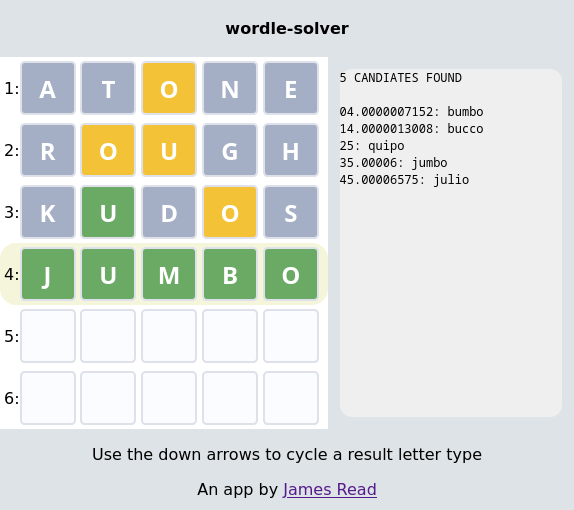
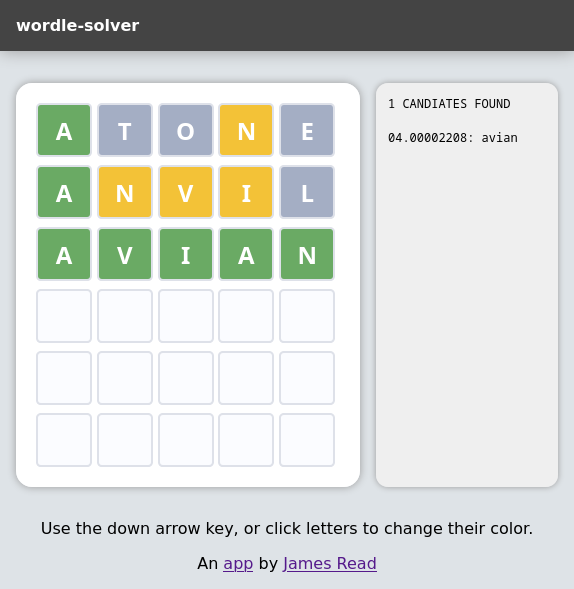
Significantly improved styling.

diff --git a/frontend/style.css b/frontend/style.css
@@ -14,10 +14,6 @@ div {
   align-items: center;
 }
 
-div[data-state='active'] {
-  background-color: beige;
-}
-
 div[data-state='active'] .letter {
   cursor: pointer;
 }
@@ -69,17 +65,21 @@ div[data-state='pending'] .letter {
 }
 
 pre {
- text-align: left;
- background-color: #efefef;
- margin: 1em;
- flex-grow: 1;
- border-radius: 1em;
+  text-align: left;
+  background-color: #efefef;
+  flex-grow: 1;
+  border-radius: 1em;
+  padding: 1em;
+  margin: 0;
+  box-shadow: 0 0 .5em #9a9a9a;
 }
 
 main {
   display: flex;
   flex-direction: row;
   margin: auto;
+  padding: 1em;
+  gap: 1em;
 }
 
 @media (max-width: 480px) {
@@ -88,14 +88,24 @@ main {
   }
 }
 
-h1 {
-  padding: .2em;
+header {
   margin: 0;
-  margin-top:  1em;
   margin-bottom: 1em;
+  padding: 1em;
+  background-color: #444;
+  box-shadow: 0 0 1em #9a9a9a;
+  color: white;
+  text-align: left;
+}
+
+h1 {
+  margin: 0;
   font-size: 1em;
 }
 
 #letters {
   background-color: white;
+  padding: 1em;
+  border-radius: 1em;
+  box-shadow: 0 0 .5em #9a9a9a;
 }

diff --git a/frontend/index.html b/frontend/index.html
@@ -9,22 +9,22 @@
 	</head>
 
 	<body>
-		<h1>wordle-solver</h1>
+		<header>
+			<h1>wordle-solver</h1>
+		</header>
 
 		<main>
 			<section id = "letters"></section>
 
-			<pre id = "candidates">
-				waiting
-			</pre>
+			<pre id = "candidates">Enter your first result.</pre>
 		</main>
 
 		<script src = "main.js"></script>
 
 
 		<footer>
-			<p>Use the down arrows to cycle a result letter type</p>
-			<p>An app by <a href = "http://jread.com">James Read</a></p>
+			<p>Use the down arrow key, or click letters to change their color.</p>
+			<p>An <a href = "https://github.com/jamesread/wordle-solver">app</a> by <a href = "http://jread.com">James Read</a></p>
 		</footer>
 	</body>
 </html>

diff --git a/frontend/main.js b/frontend/main.js
@@ -4,11 +4,6 @@ function createLetters (index) {
   const holder = document.createElement('div')
   holder.setAttribute('data-index', index)
 
-  const lbl = document.createElement('span')
-  lbl.classList.add('label')
-  lbl.innerText = (index + 1) + ': '
-  holder.appendChild(lbl)
-
   for (let i = 0; i < window.settings.countLetters; i++) {
     const l = document.createElement('input')
     l.classList.add('letter')

diff --git a/README.md b/README.md
@@ -16,7 +16,9 @@ This app has a solve rate within the very high 90% - probably 98%, and most of t
 
 ## Installation (docker container)
 
-	docker create --name wordle-solver -p 8080:8080 ghcr.io/jamesread/wordle-solver
+This is by far the easiest way to run the app, simply run the container like this;
+
+	docker run --name wordle-solver -p 8080:8080 ghcr.io/jamesread/wordle-solver
 
 ## Installation (local)
 
@@ -25,6 +27,6 @@ Pip install the dependencies;
     pip install enwords
     pip install wordfreq
 
-## Run
+### Run
 
     ./wordle-solver.py
